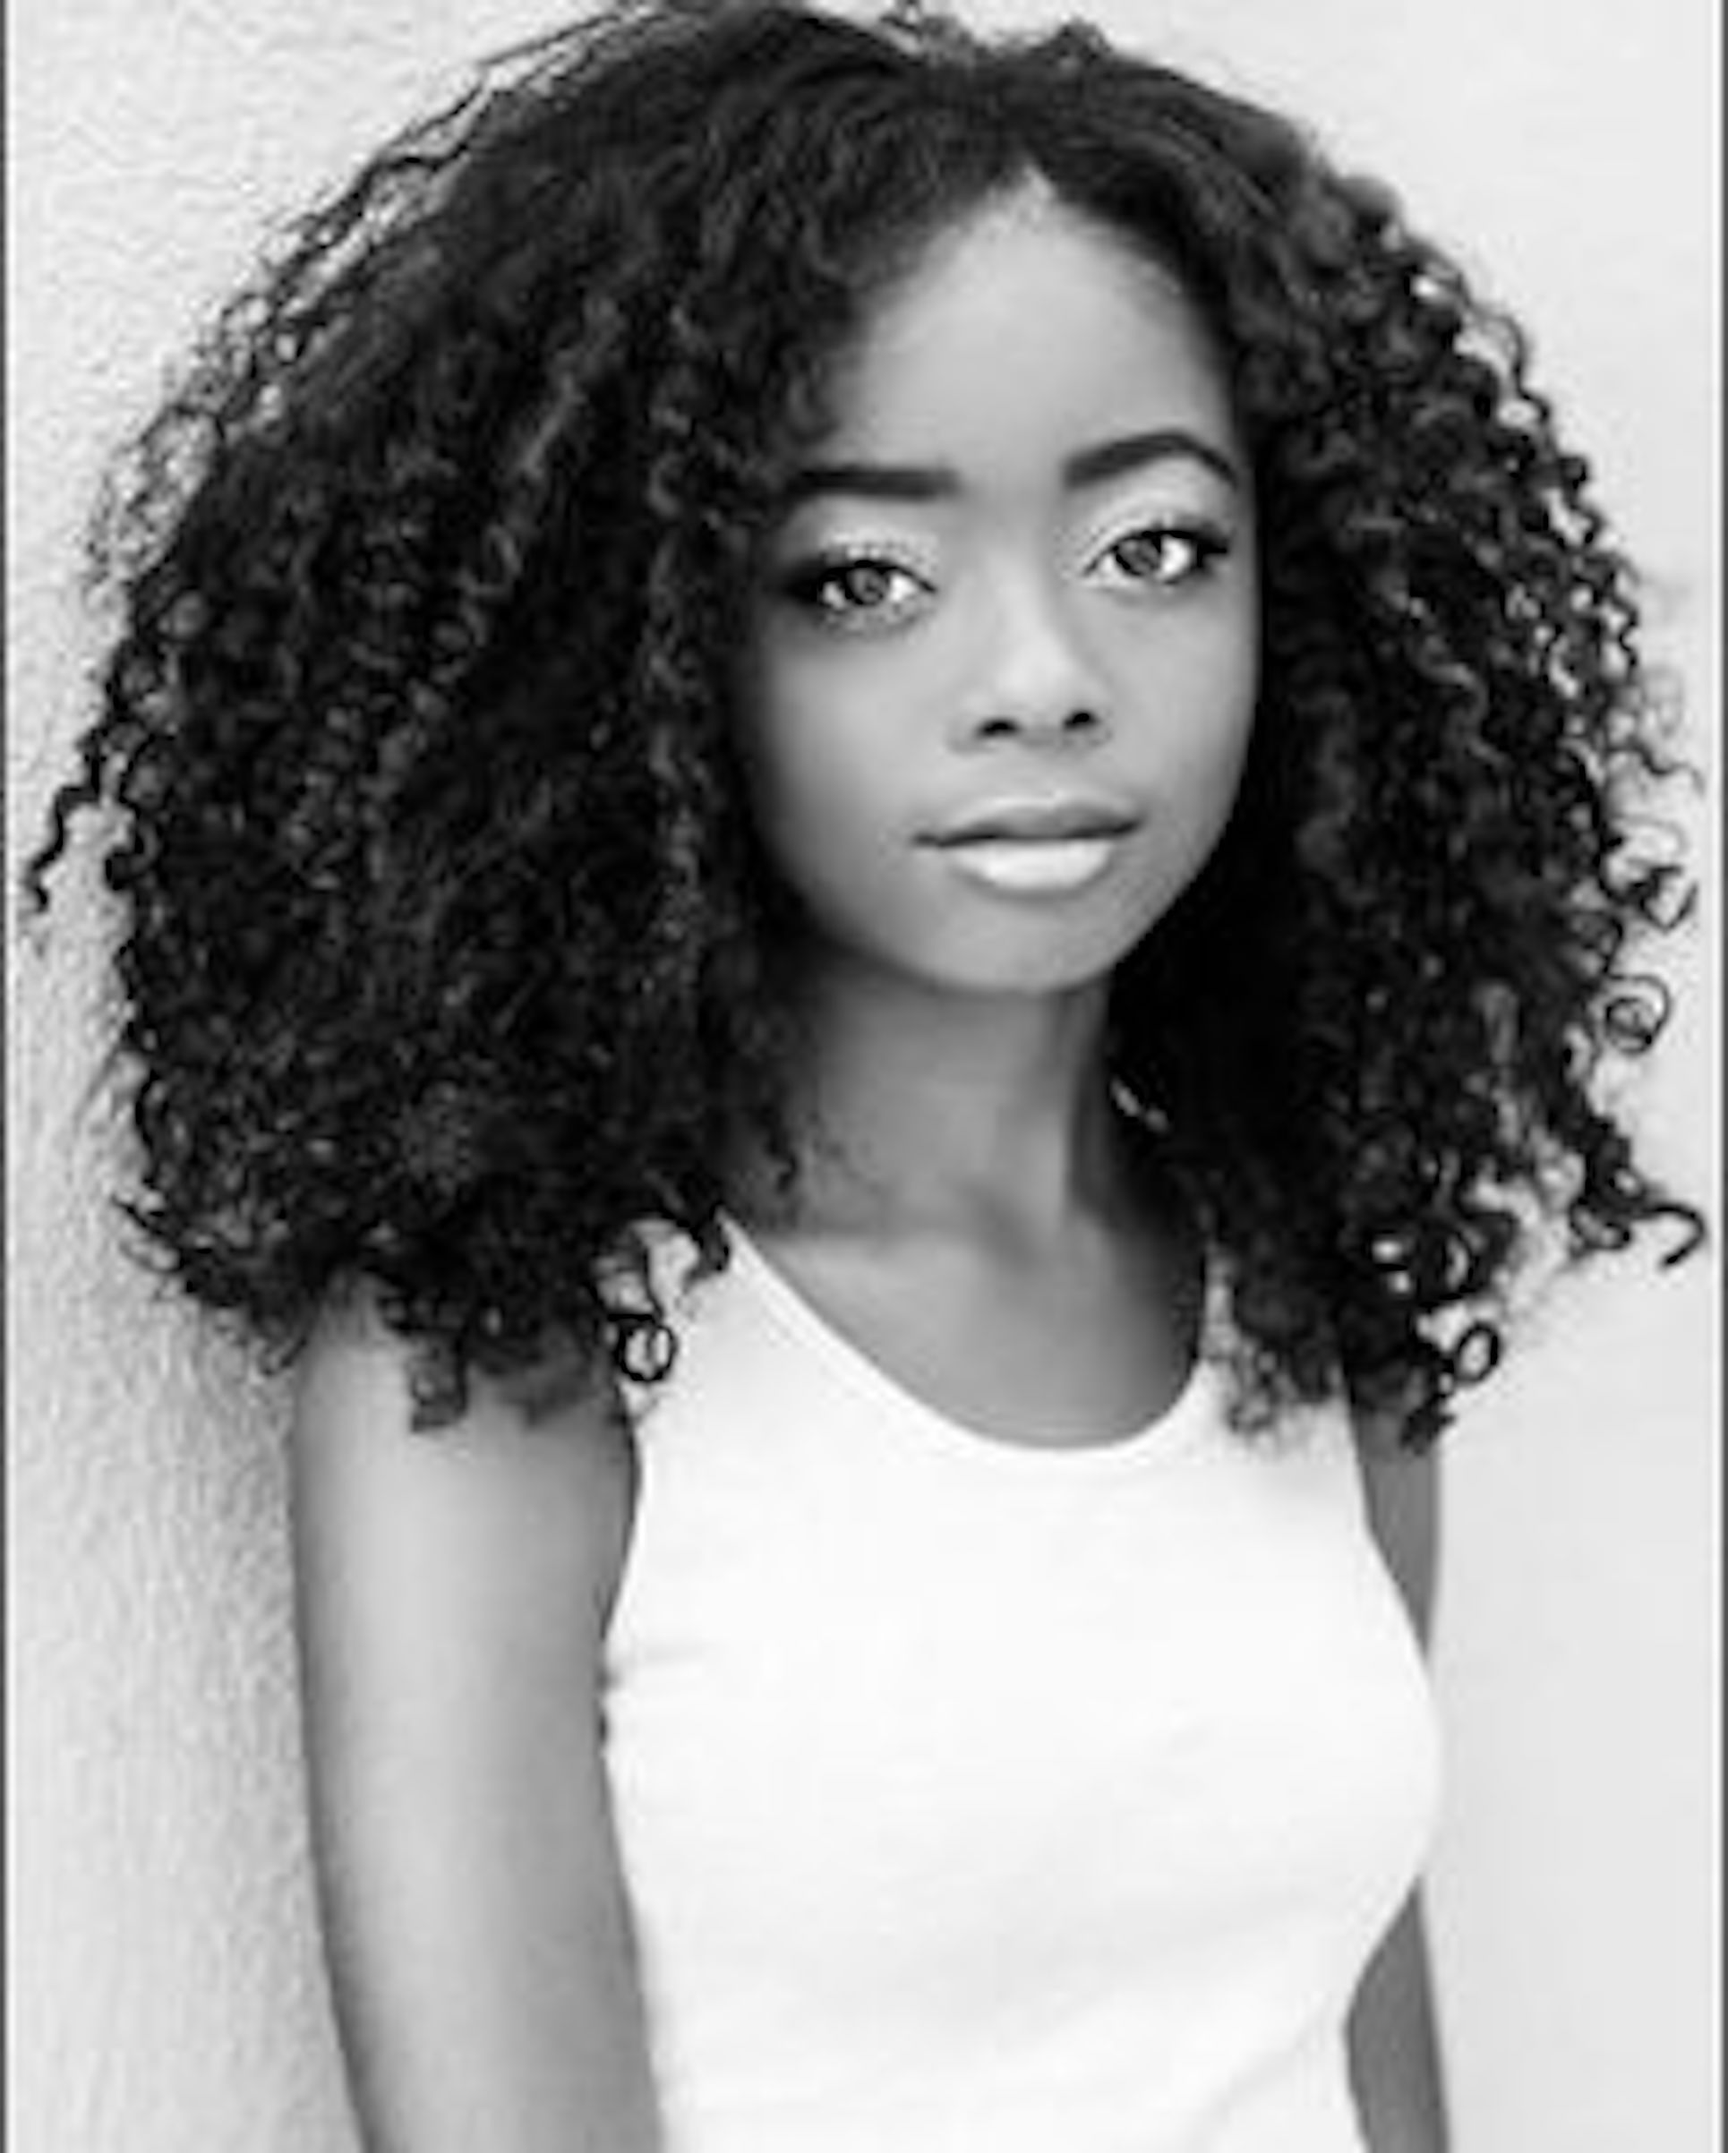
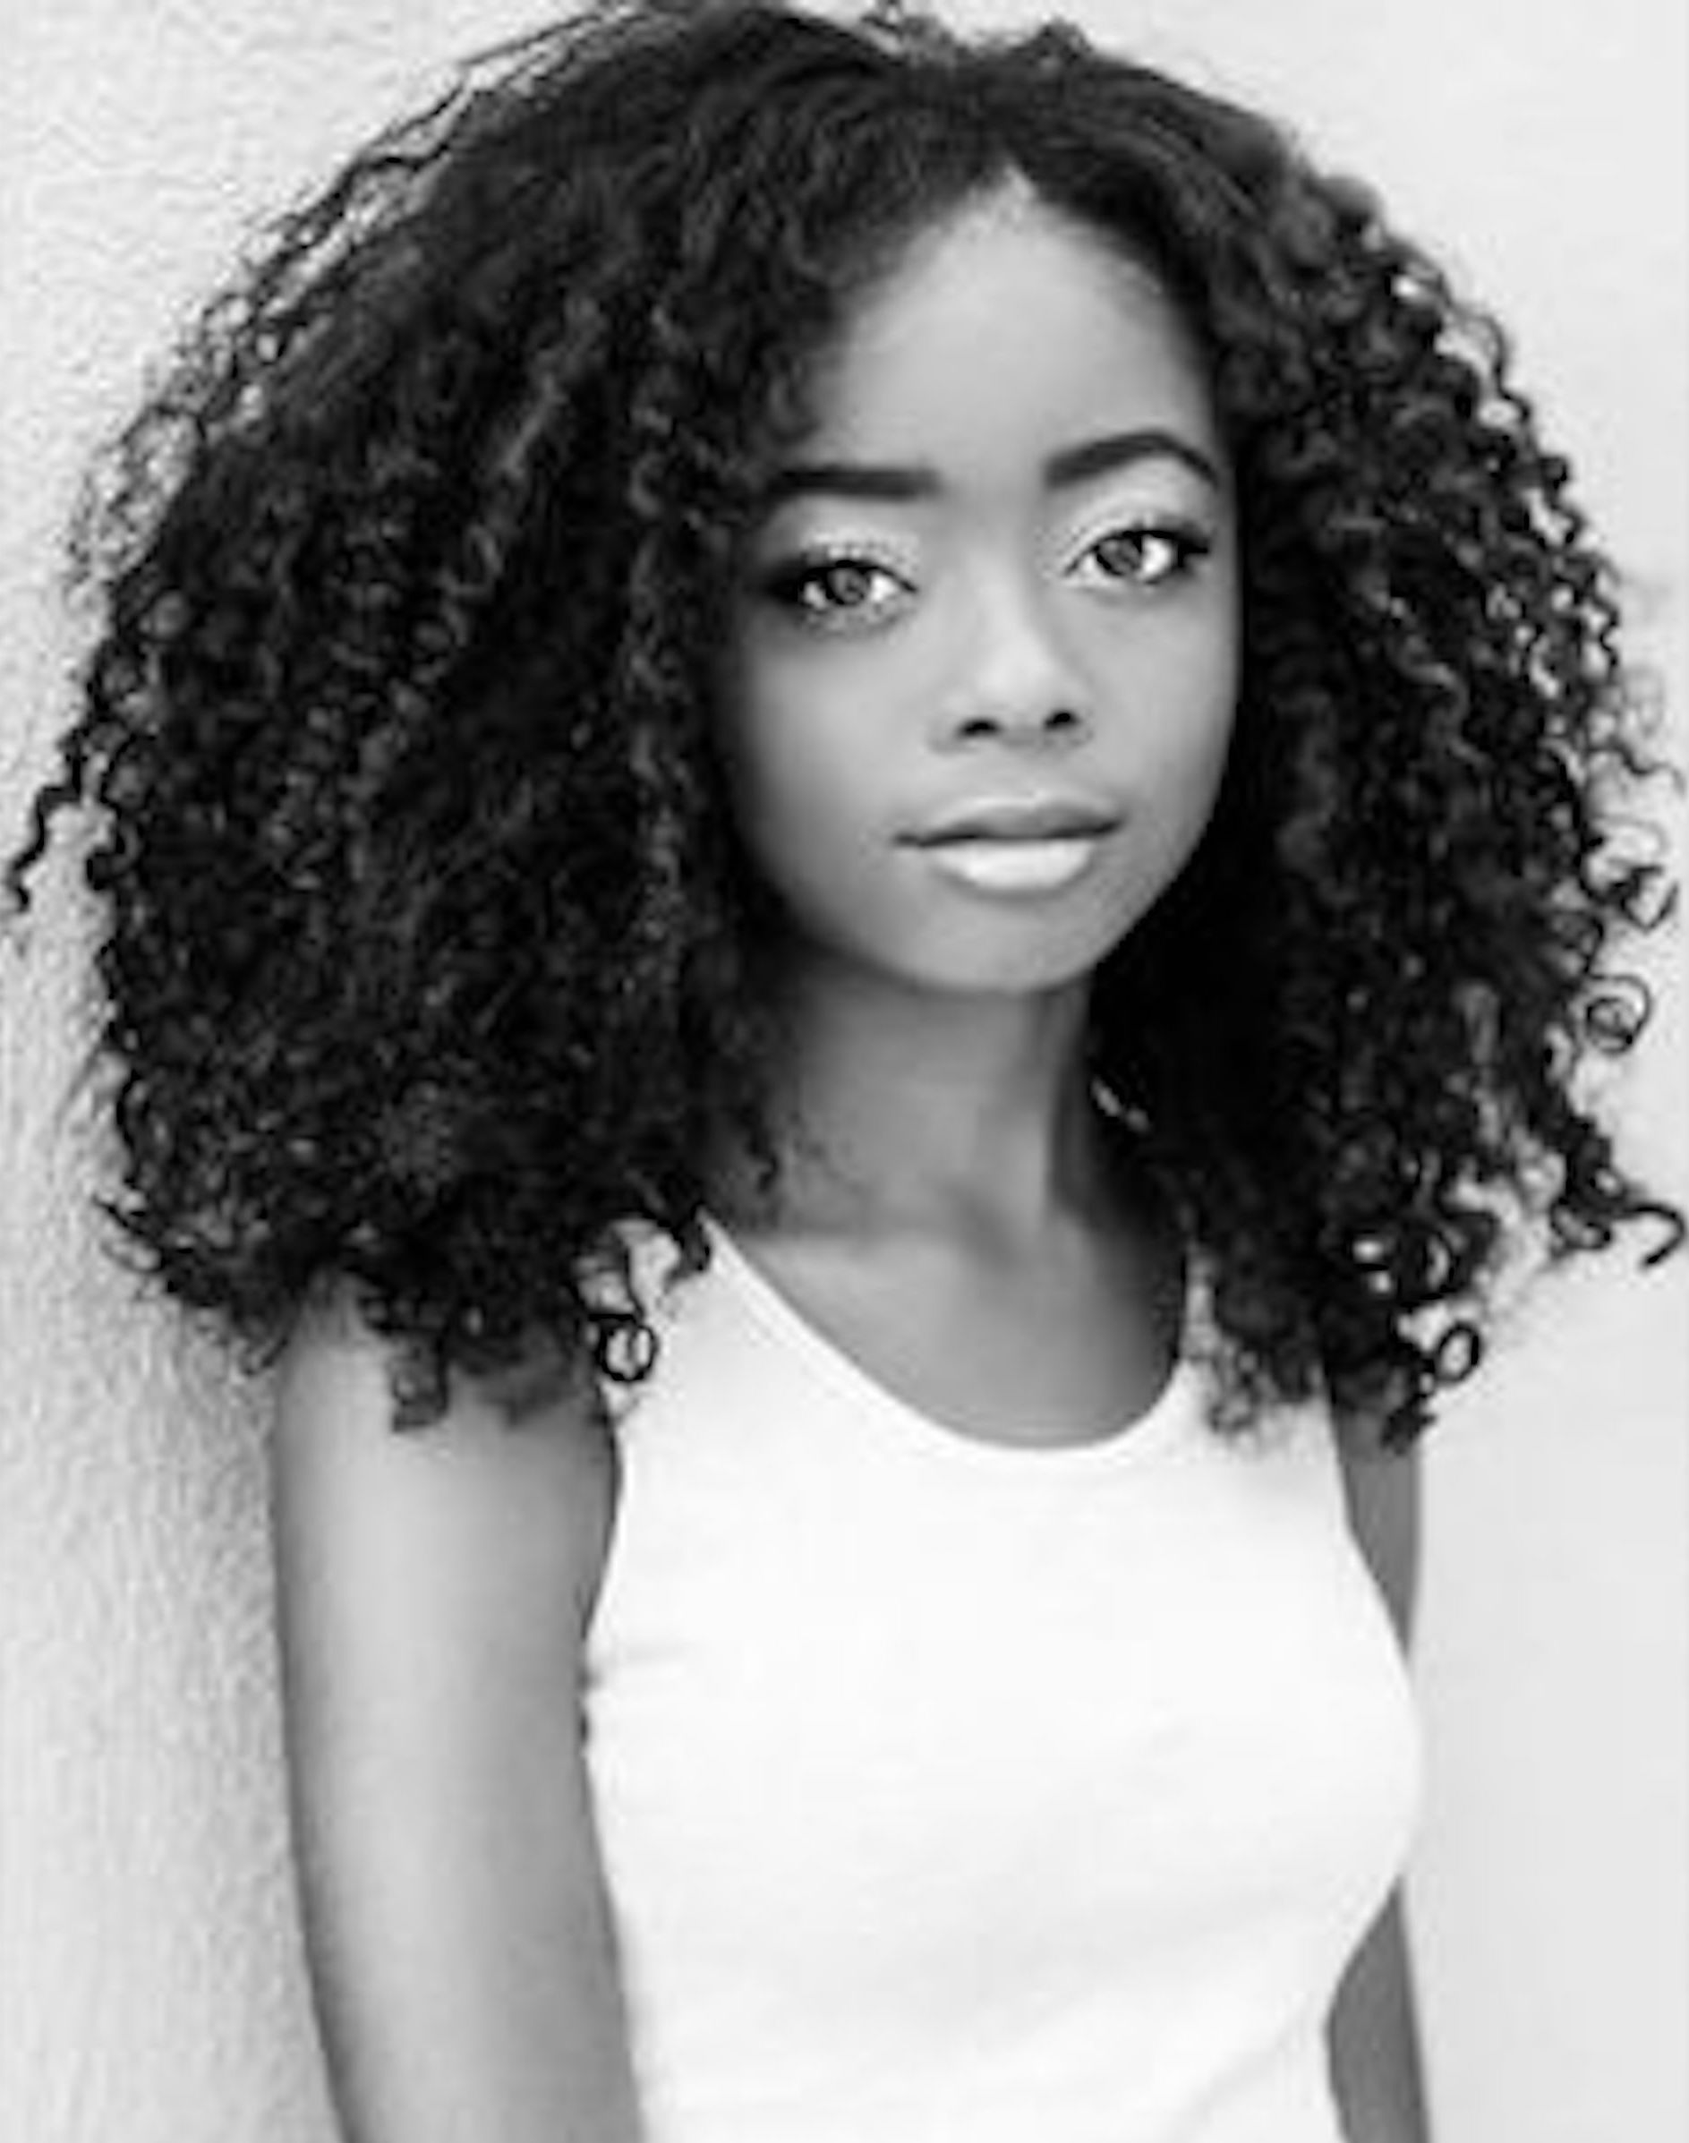
Feat finalize ng bootstrap use for home page

diff --git a/movie-web-app/src/app/actors/actors.component.html b/movie-web-app/src/app/actors/actors.component.html
@@ -1,18 +1,15 @@
 <div class="container">
-<p>
-  actors works!
-</p>
 
 
 <div class="actors">
   <div class="row justify-content-around">
     <div *ngFor="let actor of actors">
-      <div class="col-lg-4">
-
-          <img src="{{actor.path}}">
-
+      <div class="col-md-4 col-lg-4">
+        <!-- <a routerLink="/actor-detail"> -->
+          <img class="sizer" src="{{actor.path}}">
+        <!-- </a> -->
         <div class="row justify-content-around">
-          <div class="col-lg-4">
+          <div class="col-md-4 col-lg-4">
             {{actor.name}}
           </div>
         </div>

diff --git a/movie-web-app/src/app/actors/actors.component.ts b/movie-web-app/src/app/actors/actors.component.ts
@@ -1,6 +1,7 @@
 import { Component, OnInit } from '@angular/core';
 
 import { Actor } from './actor';
+import { ALL_ACTORS } from './real-actors';
 
 @Component({
   selector: 'app-actors',
@@ -9,7 +10,7 @@ import { Actor } from './actor';
 })
 export class ActorsComponent implements OnInit {
 
-  actors: Actor[];
+  actors = ALL_ACTORS;
 
   constructor() { }
 

diff --git a/movie-web-app/src/app/actors/actors.component.css b/movie-web-app/src/app/actors/actors.component.css
@@ -1,0 +1,3 @@
+.sizer {
+  max-height: 200px;
+}
